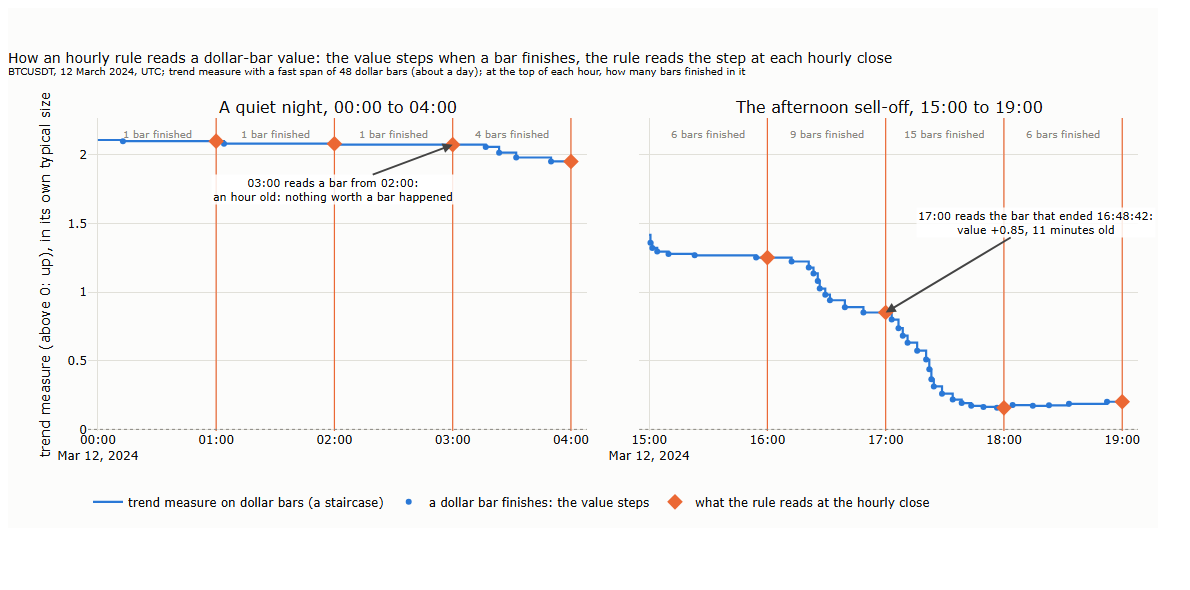
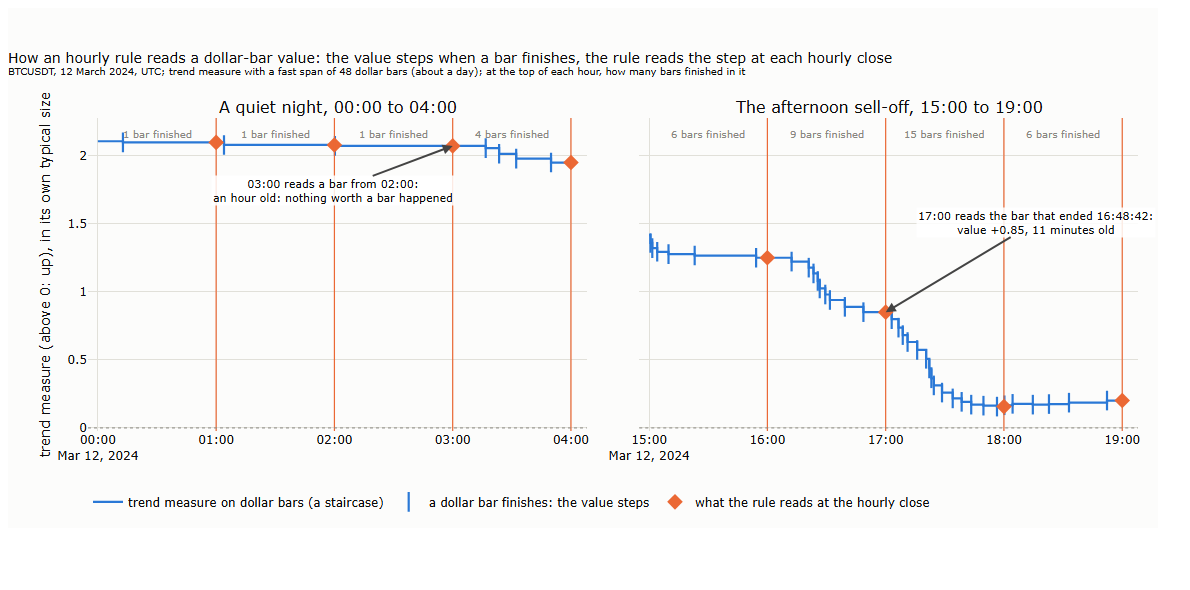
L16 figures 16_01-16_02: dashes for dollar-bar ends, keys as footnotes under each figure (#201)

diff --git a/lectures/16-trend-on-the-tape/lecture.md b/lectures/16-trend-on-the-tape/lecture.md
@@ -34,14 +34,14 @@ The decision clock stays on the calendar throughout. Funding is paid every eight
 **How the clocks communicate.** The clocks share one thing: time. Every trade on the tape carries an exchange timestamp to the millisecond, so every dollar bar carries one too, the moment its last trade happened. On one ordinary day, the two clocks look like this:
 
 ![Three clocks on one day: hourly closes and dollar-bar ends on 12 March 2024, and the age of the latest finished dollar bar at each hourly close](figures/16_01_three_clocks.png)
-
-*How to read the figure. **Black line:** the price, from one-minute closes. **Blue dashes:** each marks the moment a dollar bar finished, that is, when another fixed amount of dollars, about a 48th of a typical day's trading, had changed hands; this is the information clock. **Columns (middle strip):** how many dollar bars finished in each hour; the dotted line is an average day's two an hour. **Orange vertical lines (lower panels):** the hourly closes, at which the rule decides; this is the decision clock. **Shaded bands (lower panels):** each runs from the last dollar bar that had finished before an hourly close to that close; its width, written above it, is how old the newest dollar-bar information is when the rule decides.*
+<sub><b>How to read the figure.</b> <b>Black line:</b> the price, from one-minute closes. <b>Blue dashes:</b> each marks the moment a dollar bar finished, when another fixed amount of dollars, about a 48th of a typical day's trading, had changed hands (the information clock). <b>Columns:</b> how many dollar bars finished in each hour; the dotted line is an average day's two an hour. <b>Orange lines (lower panels):</b> the hourly closes, at which the rule decides (the decision clock). <b>Shaded bands (lower panels):</b> from the last dollar bar finished before an hourly close to that close; the width written above each is how old the newest dollar-bar information is when the rule decides.</sub>
 
 Each dash marks the moment a dollar bar finished, and the columns count them hour by hour. Dollar bars are sparse at night, one an hour or fewer, and bunch when the market is busy: on this day 86 of them, against 48 on an average day, 15 in the single hour of the afternoon sell-off. The hourly closes do not move. In the lower panels, the shaded band runs from the last finished dollar bar to each hourly close: it is how old the information is that the rule can read, an hour at night, a few minutes in the sell-off.
 
 A value computed on dollar bars, such as a moving average or a volatility, is therefore a staircase in clock time: it steps when a bar finishes and stays flat until the next one. An hourly rule reads that staircase at each of its closes:
 
 ![How an hourly rule reads a dollar-bar value: the trend measure on dollar bars as a staircase, read at each hourly close](figures/16_02_reading_another_clock.png)
+<sub><b>How to read the figure.</b> <b>Blue staircase:</b> the trend measure computed on dollar bars (fast span 48 bars, about a day); above 0 the price has been rising. <b>Blue dashes:</b> a dollar bar finishes and the value steps; between dashes it stays flat. <b>Orange lines:</b> the hourly closes. <b>Orange diamonds:</b> the value the rule reads at each close, the height of the step at that moment. <b>Grey text at the top:</b> how many dollar bars finished during each hour.</sub>
 
 At 17:00 the rule reads the value of the bar that ended at 16:48:42, eleven minutes earlier; at 03:00 it reads a bar that is an hour old, because nothing worth a bar happened during the night. Three rules make this exact:
 
